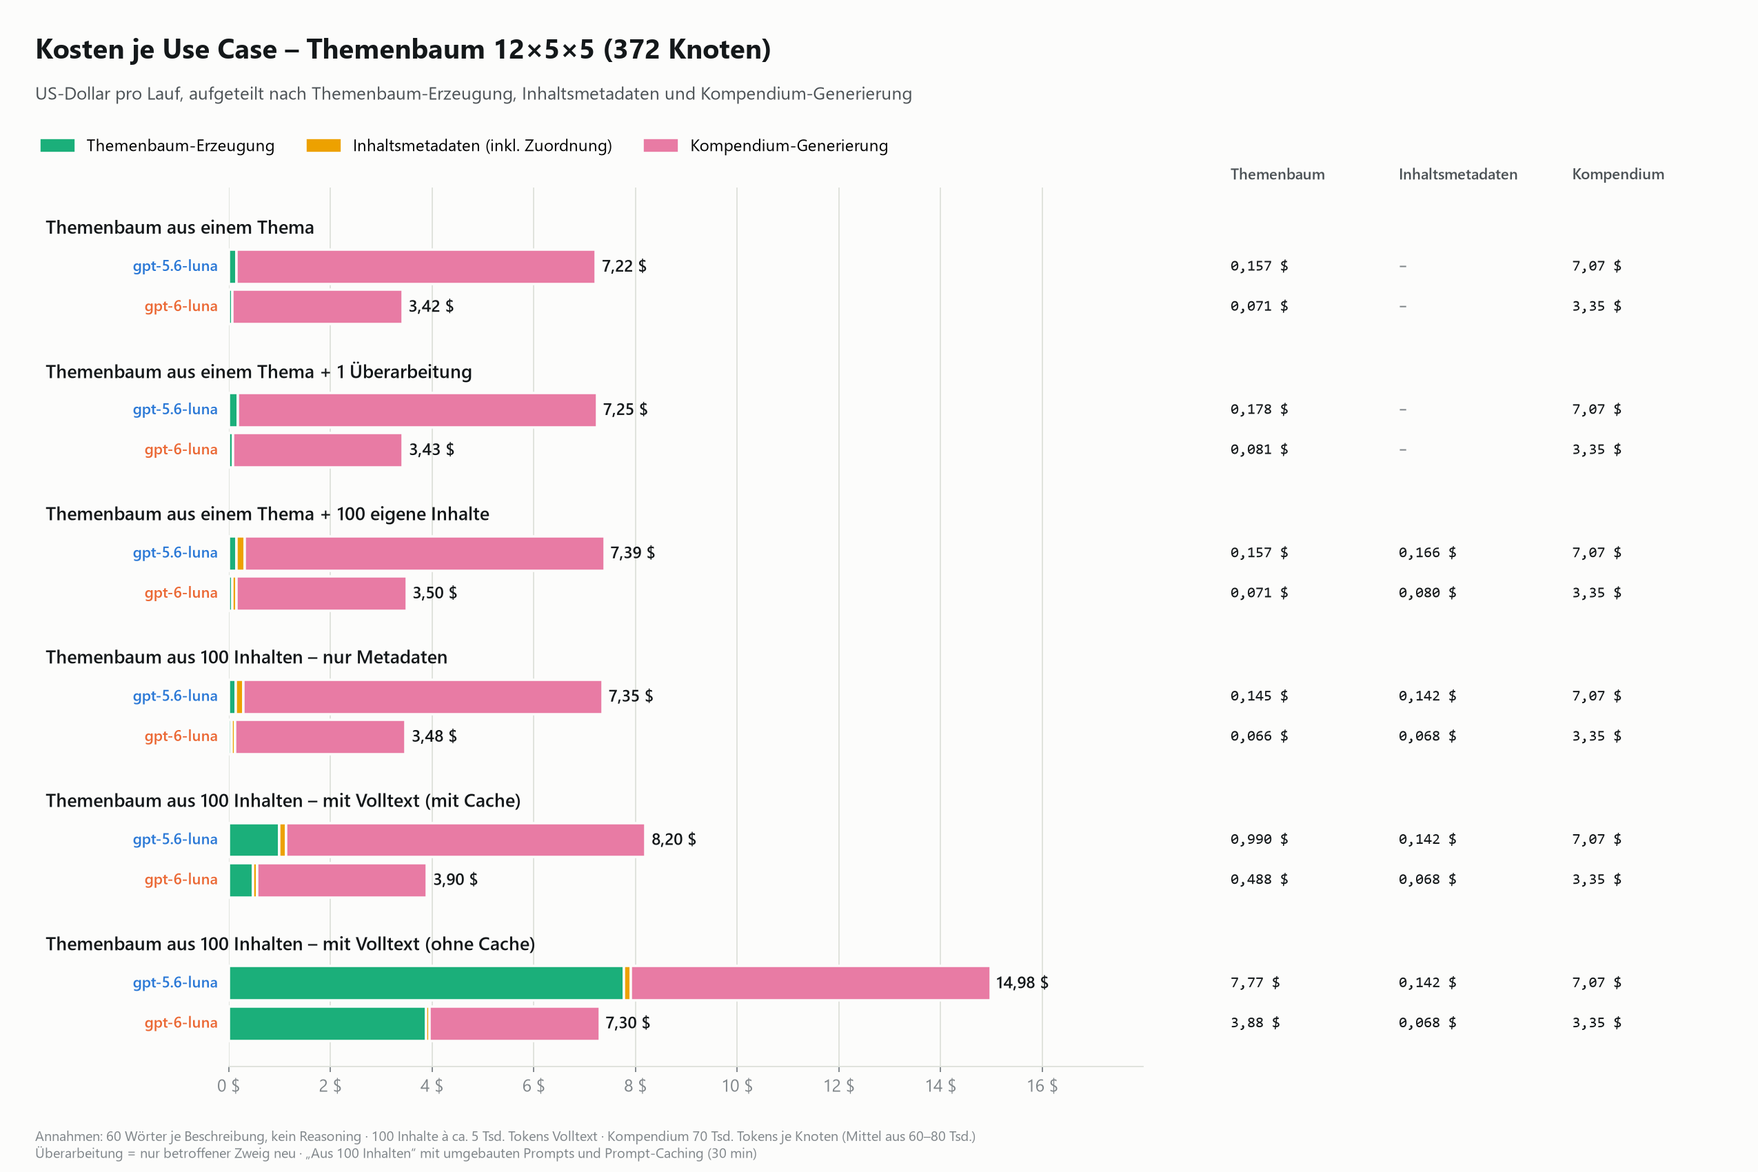
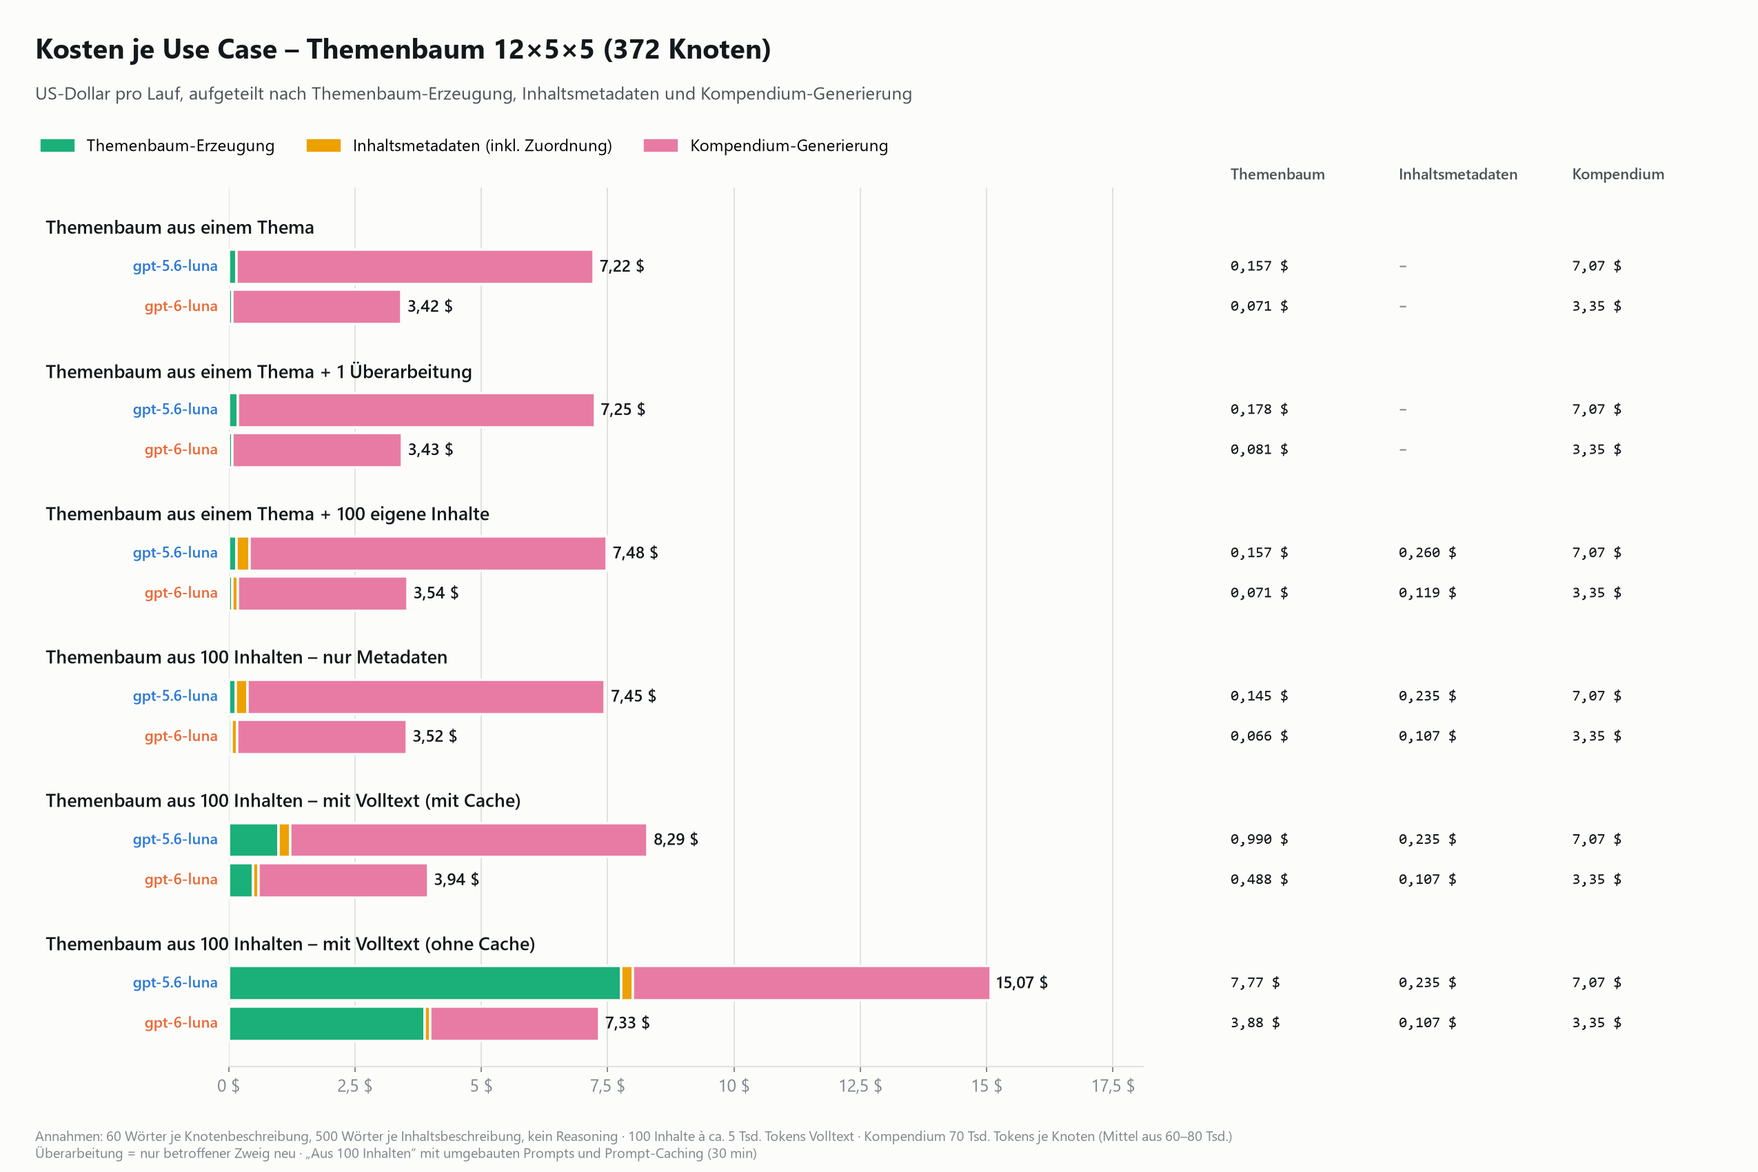
Kosten: Inhaltsbeschreibung 500 Wörter, Aufschlüsselung im Diagramm
- Eigenes Feld "Wörter je Inhaltsbeschreibung" (Standard 500); bisher waren
  250 Output-Tokens (~95 Wörter) fest angenommen, daher zu niedrige Metadatenkosten
- Kostenmodell, Grafiken und Doku mit 500 Wörtern neu gerechnet
  (Metadaten 100 Inhalte: 0,11 / 0,24 $ statt 0,07 / 0,14 $)
- Aufschlüsselung rechts unten entfernt; Tabelle je Use Case links standardmäßig
  offen, mit Monats- bzw. 1.000-Läufe-Spalte
- Achsenbeschriftung der Übersichtsgrafik korrigiert

diff --git a/themenbaum/static/kosten.html b/themenbaum/static/kosten.html
@@ -63,8 +63,8 @@ td.n{font-family:var(--mono);font-variant-numeric:tabular-nums;font-size:12.5px}
 tr.sum td{font-weight:700;border-bottom:0}
 .tbl{overflow-x:auto}
 .uc-chart{display:grid;gap:6px}
-.uc{all:unset;box-sizing:border-box;display:grid;gap:3px;padding:8px 10px;border-radius:8px;border:1px solid transparent;cursor:pointer}
-.uc:hover{background:var(--bg)}
+.uc{all:unset;box-sizing:border-box;display:grid;gap:3px;padding:8px 10px;border-radius:8px;border:1px solid transparent}
+
 .uc[aria-pressed="true"]{border-color:var(--accent);background:var(--accent-soft)}
 .uc:focus-visible{outline:2px solid var(--accent);outline-offset:1px}
 .uc-name{font-weight:600;font-size:13.5px}
@@ -111,17 +111,17 @@ code{font-family:var(--mono);font-size:.9em;background:var(--accent-soft);paddin
   <div class="facts">
     <div class="fact"><span class="k">Themenbaum 12×5×5 (372 Knoten)</span><span class="v">0,07 – 0,16 $</span><span class="s">73 LLM-Aufrufe; 6-luna bis 5.6-luna</span></div>
     <div class="fact"><span class="k">Kompendium für 372 Knoten</span><span class="v">2,83 – 8,18 $</span><span class="s">60–80 Tsd. Tokens je Knoten, über 90 % der Kosten</span></div>
-    <div class="fact"><span class="k">Metadaten für 100 Inhalte</span><span class="v">0,07 – 0,14 $</span><span class="s">Titel, Beschreibung, Keywords; Volltext ≈ 5 Tsd. Tokens</span></div>
+    <div class="fact"><span class="k">Metadaten für 100 Inhalte</span><span class="v">0,11 – 0,24 $</span><span class="s">Titel, Beschreibung (500 Wörter), Keywords; Volltext ≈ 5 Tsd. Tokens</span></div>
     <div class="fact"><span class="k">Überarbeitungswunsch (nur Zweig)</span><span class="v">0,01 – 0,02 $</span><span class="s">ganzer Baum neu: 0,04 – 0,10 $</span></div>
   </div>
 
   <div class="grid">
     <section class="card" aria-labelledby="h-main">
       <h2 id="h-main">Kosten je Use Case · <span id="chartTitle"></span></h2>
-      <p class="note">Rechnet live mit den Einstellungen im Rechner. Mit den Standardwerten entspricht das Diagramm der Übersichtsgrafik der Kostenanalyse. Einen Use Case anklicken, um ihn rechts aufzuschlüsseln.</p>
+      <p class="note">Rechnet live mit den Einstellungen im Rechner. Mit den Standardwerten entspricht es der Übersichtsgrafik der Kostenanalyse. Die Tabelle darunter schlüsselt jeden Use Case auf.</p>
       <div class="legend"><span><i style="background:var(--c-tree)"></i>Themenbaum-Erzeugung</span><span><i style="background:var(--c-rev)"></i>Anpassungen</span><span><i style="background:var(--c-meta)"></i>Inhaltsmetadaten (inkl. Zuordnung)</span><span><i style="background:var(--c-komp)"></i>Kompendium</span></div>
       <div id="chart" class="uc-chart"></div>
-      <details class="how"><summary>Werte als Tabelle</summary><div class="tbl"><table id="ucTable"></table></div></details>
+      <details class="how" open><summary>Aufschlüsselung je Use Case</summary><div class="tbl"><table id="ucTable"></table></div></details>
       <p class="note" id="chartNote"></p>
     </section>
 
@@ -148,7 +148,7 @@ code{font-family:var(--mono);font-size:.9em;background:var(--accent-soft);paddin
         </div>
         <div class="row">
           <label for="code">Code-Stand<select id="code"><option value="ist">aktueller Code</option><option value="fix">mit Prompt-Fix (nur Titel im Kontext)</option></select></label>
-          <label for="words">Wörter je Beschreibung<input type="number" id="words" value="60" min="20" max="300"></label>
+          <label for="words">Wörter je Knotenbeschreibung<input type="number" id="words" value="60" min="20" max="300"></label>
           <label for="reason">Reasoning-Tokens je Aufruf<input type="number" id="reason" value="0" min="0" step="100"></label>
         </div>
       </fieldset>
@@ -165,6 +165,7 @@ code{font-family:var(--mono);font-size:.9em;background:var(--accent-soft);paddin
         <div class="row">
           <label for="itemsExact">genau<input type="number" id="itemsExact" min="0" max="1000000" value="100"></label>
           <label for="fulltext">Volltext-Tokens je Inhalt<input type="number" id="fulltext" value="5000" min="0" step="500"></label>
+          <label for="metaWords">Wörter je Inhaltsbeschreibung<input type="number" id="metaWords" value="500" min="0" max="3000" step="50"></label>
         </div>
         <label class="check" for="assign"><input type="checkbox" id="assign" checked> Inhalte dem Baum zuordnen (Baum im Cache)</label>
       </fieldset>
@@ -179,12 +180,7 @@ code{font-family:var(--mono);font-size:.9em;background:var(--accent-soft);paddin
       </fieldset>
       <label for="runs">Läufe pro Monat<input type="number" id="runs" value="1" min="0" max="100000"></label>
 
-      <h3 class="sel" id="selTitle"></h3>
-      <div class="total" aria-live="polite"><span class="big" id="tTotal">–</span><span id="tMonth"></span><span id="tNodes"></span></div>
-      <div class="bar" id="bar" aria-hidden="true"></div>
-      <div class="legend"><span><i style="background:var(--c-tree)"></i>Themenbaum</span><span><i style="background:var(--c-rev)"></i>Anpassungen</span><span><i style="background:var(--c-meta)"></i>Inhaltsmetadaten</span><span><i style="background:var(--c-komp)"></i>Kompendium</span></div>
-      <div class="tbl"><table id="tRes"></table></div>
-      <p class="note" id="tCompare"></p>
+      <p class="note" id="calcNote"></p>
     </section>
   </div>
 
@@ -199,7 +195,7 @@ code{font-family:var(--mono);font-size:.9em;background:var(--accent-soft);paddin
           <tr><td>Themenbaum 12×10×5, aktueller Code (133 Aufrufe)</td><td class="n">0,151 $</td><td class="n">0,330 $</td></tr>
           <tr><td>Themenbaum 12×10×5, Fall „hoch“ (100 Wörter + Reasoning)</td><td class="n">0,267 $</td><td class="n">0,600 $</td></tr>
           <tr><td>Überarbeitung 12×10×5: ganzer Baum / nur Zweig / Zweig + Cache</td><td class="n">0,084 / 0,020 / 0,011 $</td><td class="n">0,197 / 0,042 / 0,023 $</td></tr>
-          <tr><td>Metadaten 100 Inhalte: Volltext kurz / mittel / lang</td><td class="n">0,038 / 0,068 / 0,168 $</td><td class="n">0,082 / 0,142 / 0,342 $</td></tr>
+          <tr><td>Metadaten 100 Inhalte: Volltext kurz / mittel / lang</td><td class="n">0,077 / 0,107 / 0,207 $</td><td class="n">0,175 / 0,235 / 0,435 $</td></tr>
           <tr><td>Zuordnung 100 Inhalte zu 12×5×5: ohne / mit Cache</td><td class="n">0,061 / 0,012 $</td><td class="n">0,122 / 0,025 $</td></tr>
           <tr><td>Baum aus 100 Inhalten 12×5×5, Volltext mittel: ohne / mit Cache</td><td class="n">3,88 / 0,49 $</td><td class="n">7,77 / 0,99 $</td></tr>
           <tr><td>Kompendium 12×5×5 (372 Knoten)</td><td class="n">2,83 – 3,87 $</td><td class="n">5,95 – 8,18 $</td></tr>
@@ -228,7 +224,7 @@ code{font-family:var(--mono);font-size:.9em;background:var(--accent-soft);paddin
       <ul>
         <li>System-Prompt 578 Tokens; ein Knoten im Output 182 Tokens bei 60 Wörtern Beschreibung (+2 Tokens je weiterem Wort).</li>
         <li>Aufrufe: 1 für die Hauptthemen, 1 je Hauptthema, 1 je Unterthema. Die Modelle schöpfen die Obergrenzen voll aus.</li>
-        <li>Metadaten: Anweisung 582 Tokens + Volltext je Inhalt, Output 250 Tokens. Zuordnung: Titelliste des Baums (14 Tokens je Knoten) im Cache.</li>
+        <li>Metadaten: Anweisung 582 Tokens + Volltext je Inhalt; Output 65 Tokens (Titel, Keywords) + 1,925 Tokens je Wort Beschreibung, Standard 500 Wörter ≈ 1.030 Tokens. Zuordnung: Titelliste des Baums (14 Tokens je Knoten) im Cache.</li>
         <li>Kompendium: gemessene 60–80 Tsd. Tokens und 30–40 s je Knoten; gerechnet mit 4–6 Tsd. Output, Rest Input.</li>
         <li>Tokenizer o200k als Näherung (±10–15 %). Nicht enthalten: Crawler, Hosting, Wiederholungen nach Fehlern.</li>
       </ul>
@@ -258,7 +254,6 @@ const usd=v=>(v<1?nf(v,3):v<100?nf(v,2):nf(v,0))+" $";
 const tok=v=>v>=1e6?nf(v/1e6,2)+" Mio.":v>=1e3?nf(v/1e3,0)+" Tsd.":nf(v,0);
 const COLORS={tree:"var(--c-tree)",rev:"var(--c-rev)",meta:"var(--c-meta)",komp:"var(--c-komp)"};
 const PARTS=[["tree","Themenbaum"],["rev","Anpassungen"],["meta","Inhaltsmetadaten"],["komp","Kompendium"]];
-let selected="topic";
 
 function applyPreset(){const p=PRESETS[$("#preset").value];if(!p)return;$("#pIn").value=p.in;$("#pOut").value=p.out;$("#pCache").value=p.cache;$("#pWrite").value=p.write}
 
@@ -267,7 +262,7 @@ function applyPreset(){const p=PRESETS[$("#preset").value];if(!p)return;$("#pIn"
 function params(){
   return {NM:Math.round(num("n1")),NS:Math.round(num("n2")),NL:Math.round(num("n3")),words:num("words"),R:num("reason"),
     fix:$("#code").value==="fix",loops:Math.round(num("loops")),loopMode:$("#loopMode").value,
-    n:Math.round(num("itemsExact")),ft:num("fulltext"),assign:$("#assign").checked,
+    n:Math.round(num("itemsExact")),ft:num("fulltext"),metaWords:num("metaWords"),assign:$("#assign").checked,
     komp:$("#komp").checked,kompAll:$("#kompNodes").value==="all",kompTok:num("kompTok"),kompOut:num("kompOut")};
 }
 function tree(p,fix){
@@ -291,7 +286,7 @@ function partRev(p,pr){
   return {i:L*150+ctx,o:L*out,c:cost(pr,L*150,L*out,(L-1)*(ctx-150),ctx-150)};
 }
 function partMeta(p,pr,assign){
-  const n=p.n,i0=n*(582+p.ft),o0=n*(250+p.R);
+  const n=p.n,i0=n*(582+p.ft),o0=n*(65+1.925*p.metaWords+p.R);
   let r={i:i0,o:o0,c:cost(pr,i0,o0)};
   if(n>0&&assign){const tl=tree(p,p.fix).nodes*14+300;r={i:r.i+n*250+tl,o:r.o+n*60,c:r.c+cost(pr,n*250,n*60,(n-1)*tl,tl)}}
   return r;
@@ -332,7 +327,6 @@ function currentProfile(){const k=$("#preset").value;return k==="own"?profiles()
 function renderChart(p){
   const profs=profiles(),all=profs.map(pr=>useCases(p,pr));
   const ucs=all[0];
-  if(!ucs.some(u=>u.key===selected))selected="topic";
   const max=Math.max(...all.flat().map(u=>u.total),1e-9);
   const t=tree(p,p.fix);
   $("#chartTitle").textContent=`Themenbaum ${p.NM}×${p.NS}×${p.NL} (${nf(t.nodes,0)} Knoten)`;
@@ -341,27 +335,18 @@ function renderChart(p){
     const rows=profs.map((pr,j)=>{const v=all[j][i];
       const segs=PARTS.filter(([k])=>v.parts[k].c>0).map(([k,name])=>`<i style="flex:${v.parts[k].c} 1 0;background:${COLORS[k]}" title="${name}: ${usd(v.parts[k].c)}"></i>`).join("");
       return `<span class="uc-row"><span class="uc-model">${pr.name}</span><span class="uc-track"><span class="uc-bar" style="width:${(v.total/max*80).toFixed(2)}%">${segs}</span><span class="uc-val">${usd(v.total)}</span></span></span>`}).join("");
-    return `<button type="button" class="uc" data-key="${u.key}" aria-pressed="${u.key===selected}"><span class="uc-name">${u.name}</span>${warn}${rows}</button>`}).join("");
-  $("#chart").querySelectorAll(".uc").forEach(b=>b.onclick=()=>{selected=b.dataset.key;render()});
-  $("#ucTable").innerHTML=`<thead><tr><th>Use Case</th><th>Modell</th>${PARTS.map(([,n])=>`<th>${n}</th>`).join("")}<th>Summe</th></tr></thead><tbody>`+
-    ucs.map((u,i)=>profs.map((pr,j)=>{const v=all[j][i];return `<tr><td>${j?"":u.name}</td><td>${pr.name}</td>${PARTS.map(([k])=>`<td class="n">${v.parts[k].c?usd(v.parts[k].c):"–"}</td>`).join("")}<td class="n"><b>${usd(v.total)}</b></td></tr>`}).join("")).join("")+"</tbody>";
+    return `<div class="uc"><span class="uc-name">${u.name}</span>${warn}${rows}</div>`}).join("");
+  const runs=num("runs"),month=runs!==1;
+  $("#ucTable").innerHTML=`<thead><tr><th>Use Case</th><th>Modell</th>${PARTS.map(([,n])=>`<th>${n}</th>`).join("")}<th>Summe je Lauf</th><th>${month?`× ${nf(runs,0)} Läufe`:"1.000 Läufe"}</th></tr></thead><tbody>`+
+    ucs.map((u,i)=>profs.map((pr,j)=>{const v=all[j][i];return `<tr><td>${j?"":u.name}</td><td>${pr.name}</td>${PARTS.map(([k])=>`<td class="n" title="${tok(v.parts[k].i)} Input, ${tok(v.parts[k].o)} Output">${v.parts[k].c?usd(v.parts[k].c):"–"}</td>`).join("")}<td class="n"><b>${usd(v.total)}</b></td><td class="n">${usd(v.total*(month?runs:1000))}</td></tr>`}).join("")).join("")+"</tbody>";
   const fixNote=p.n>0?" „Themenbaum aus Inhalten“ rechnet mit umgebauten Prompts (Korpus vorne, nur Titel im Kontext), sonst greift kein Caching.":"";
   $("#chartNote").textContent=`Kompendium je Zeile: ${profs.map(pr=>`${usd(partKomp(p,pr).c)} (${pr.name})`).join(", ")}.${fixNote}`;
 }
 
 function renderCalc(p){
-  const pr=currentProfile(),u=useCases(p,pr).find(x=>x.key===selected),runs=num("runs");
+  const tr=tree(p,p.fix);
   $("#itemsOut").textContent=nf(p.n,0);
-  $("#selTitle").textContent=`Aufschlüsselung: ${u.name} · ${pr.name}`;
-  $("#tTotal").textContent=usd(u.total)+" je Lauf";
-  $("#tMonth").textContent=runs!==1?`${usd(u.total*runs)} bei ${nf(runs,0)} Läufen im Monat`:`${usd(u.total*1000)} für 1.000 Läufe`;
-  $("#tNodes").textContent=`${nf(tree(p,p.fix).nodes,0)} Knoten · ${tree(p,p.fix).calls} LLM-Aufrufe für den Baum`;
-  $("#bar").innerHTML=u.total>0?PARTS.filter(([k])=>u.parts[k].c>0).map(([k,n])=>`<div style="flex:${u.parts[k].c} 1 0;background:${COLORS[k]}" title="${n}: ${usd(u.parts[k].c)}"></div>`).join(""):"";
-  const sum=f=>PARTS.reduce((s,[k])=>s+u.parts[k][f],0);
-  $("#tRes").innerHTML=`<thead><tr><th>Baustein</th><th>Input</th><th>Output</th><th>Kosten</th><th>Anteil</th></tr></thead><tbody>`+
-    PARTS.map(([k,n])=>{const v=u.parts[k];return `<tr><td>${n}</td><td class="n">${tok(v.i)}</td><td class="n">${tok(v.o)}</td><td class="n">${v.c?usd(v.c):"–"}</td><td class="n">${u.total?nf(v.c/u.total*100,0):0} %</td></tr>`}).join("")+
-    `<tr class="sum"><td>Summe je Lauf</td><td class="n">${tok(sum("i"))}</td><td class="n">${tok(sum("o"))}</td><td class="n">${usd(u.total)}</td><td></td></tr></tbody>`;
-  $("#tCompare").textContent="Anderen Use Case links im Diagramm anklicken, um ihn hier aufzuschlüsseln.";
+  $("#calcNote").textContent=`${nf(tr.nodes,0)} Knoten, ${tr.calls} LLM-Aufrufe für den Baum. Die Ergebnisse stehen links im Diagramm und in der Aufschlüsselung je Use Case.`;
 }
 function render(){const p=params();renderChart(p);renderCalc(p)}
 

diff --git a/scripts/grafiken_kosten.py b/scripts/grafiken_kosten.py
@@ -78,14 +78,14 @@ def plot_overview(st, fn):
     ax.set_xlim(0, maxv * 1.2); ax.set_yticks([])
     for s in ("top", "right", "left"): ax.spines[s].set_visible(False)
     ax.grid(axis="x", color=LINE, lw=0.8); ax.set_axisbelow(True)
-    ax.xaxis.set_major_formatter(FuncFormatter(lambda v, _: f"{v:.0f} $"))
+    ax.xaxis.set_major_formatter(FuncFormatter(lambda v, _: f"{v:.1f}".rstrip("0").rstrip(".").replace(".", ",") + " $"))
     fig.text(0.02, 1 - 0.5 / H, f"Kosten je Use Case – Themenbaum {st} ({nodes} Knoten)", fontsize=17, fontweight="bold", color=INK)
     fig.text(0.02, 1 - 0.85 / H, "US-Dollar pro Lauf, aufgeteilt nach Themenbaum-Erzeugung, Inhaltsmetadaten und Kompendium-Generierung", fontsize=11, color=INK2)
     hs = [plt.Rectangle((0, 0), 1, 1, color=c) for c in (C1, C2, C3)]
     fig.legend(hs, ["Themenbaum-Erzeugung", "Inhaltsmetadaten (inkl. Zuordnung)", "Kompendium-Generierung"], loc="lower left",
                bbox_to_anchor=(0.015, 1 - 1.45 / H), ncol=3, frameon=False, fontsize=10)
     fig.text(0.02, 0.12 / H,
-             "Annahmen: 60 Wörter je Beschreibung, kein Reasoning · 100 Inhalte à ca. 5 Tsd. Tokens Volltext · Kompendium 70 Tsd. Tokens je Knoten (Mittel aus 60–80 Tsd.)\n"
+             "Annahmen: 60 Wörter je Knotenbeschreibung, 500 Wörter je Inhaltsbeschreibung, kein Reasoning · 100 Inhalte à ca. 5 Tsd. Tokens Volltext · Kompendium 70 Tsd. Tokens je Knoten (Mittel aus 60–80 Tsd.)\n"
              "Überarbeitung = nur betroffener Zweig neu · „Aus 100 Inhalten“ mit umgebauten Prompts und Prompt-Caching (30 min)",
              ha="left", fontsize=8.5, color=MUTED)
     fig.savefig(f"{OUT}/{fn}", dpi=170); plt.close(fig)

diff --git a/scripts/kostenmodell.py b/scripts/kostenmodell.py
@@ -63,7 +63,9 @@ for s in ("12×5×5","12×10×5"):
             Bc={m: round((cost(m,150,br+r,twrite=tin-150)+4*cost(m,150,br+r,tcached=tin-150))/5,4) for m in M})
     D["rev"].append(row)
 INSTR = t(DESCRIPTION_PROMPT_TEMPLATE)+200
-META_OUT = 250
+# Metadaten-Output je Inhalt: Titel, Keywords, JSON (~65 Tokens) + Beschreibung (1,925 Tokens je Wort, Deutsch).
+META_WORDS = 500
+META_OUT = round(65 + 1.925 * META_WORDS)
 for label,ft in {"Volltext kurz (≈2k Tokens)":2000,"Volltext mittel (≈5k)":5000,"Volltext lang (≈15k, gekappt)":15000}.items():
     tin=100*(INSTR+ft)
     D["uc2"].append(dict(label=label,ft=ft,tin=tin,basis=dict(tout=100*META_OUT,**C(tin=tin,tout=100*META_OUT)),hoch=dict(tout=100*(META_OUT+800),**C(tin=tin,tout=100*(META_OUT+800)))))

diff --git a/docs/kosten.md b/docs/kosten.md
@@ -12,8 +12,8 @@ Alle Beträge in US-Dollar. Gerechnet für **gpt-6-luna** und **gpt-5.6-luna**.
 - **Der Themenbaum selbst ist günstig:** 0,07–0,16 $ für 12×5×5 (372 Knoten), 0,15–0,33 $ für 12×10×5 (732 Knoten).
 - **Ein Kompendium-Text je Sammlung dominiert** mit über 90 % der Kosten: 2,83–8,18 $ für 372 Knoten. Bei mehreren
   hundert Knoten kommt trotz kleiner Einzelbeträge einiges zusammen.
-- **Inhalte skalieren linear mit der Menge:** beschreibende Metadaten (Titel, Beschreibung, Keywords) kosten etwa
-  0,07–0,14 Cent je Inhalt; Fach und Bildungsstufe laufen ohne LLM.
+- **Inhalte skalieren linear mit der Menge:** beschreibende Metadaten (Titel, Beschreibung mit 500 Wörtern, Keywords)
+  kosten etwa 0,11–0,24 Cent je Inhalt; Fach und Bildungsstufe laufen ohne LLM.
 - **Überarbeitungswünsche sind billig**, wenn nur der betroffene Zweig neu erzeugt wird (1–4 Cent).
 - **Teuer wird es nur, wenn Volltexte vieler Inhalte in jeden Aufruf wandern** und kein Prompt-Caching genutzt wird
   (bis 14 $ je Baum).
@@ -24,10 +24,10 @@ Alle Beträge in US-Dollar. Gerechnet für **gpt-6-luna** und **gpt-5.6-luna**.
 |---|---:|---:|
 | Themenbaum aus einem Thema | 3,42 $ | 7,22 $ |
 | … + 1 Überarbeitung | 3,43 $ | 7,25 $ |
-| … + 100 eigene Inhalte | 3,50 $ | 7,39 $ |
-| Themenbaum aus 100 Inhalten, nur Metadaten | 3,48 $ | 7,35 $ |
-| Themenbaum aus 100 Inhalten, mit Volltext (mit Cache) | 3,90 $ | 8,20 $ |
-| Themenbaum aus 100 Inhalten, mit Volltext (ohne Cache) | 7,30 $ | 14,98 $ |
+| … + 100 eigene Inhalte | 3,54 $ | 7,48 $ |
+| Themenbaum aus 100 Inhalten, nur Metadaten | 3,52 $ | 7,45 $ |
+| Themenbaum aus 100 Inhalten, mit Volltext (mit Cache) | 3,94 $ | 8,29 $ |
+| Themenbaum aus 100 Inhalten, mit Volltext (ohne Cache) | 7,33 $ | 15,07 $ |
 
 Dieselbe Übersicht für 12×10×5: [`kosten/00b_uebersicht_usecases_12x10x5.png`](kosten/00b_uebersicht_usecases_12x10x5.png).
 
@@ -44,7 +44,10 @@ Dieselbe Übersicht für 12×10×5: [`kosten/00b_uebersicht_usecases_12x10x5.png
   Lehrplanthemen. 12×5×5 = 73 Aufrufe, 12×10×5 = 133 Aufrufe.
 - System-Prompt 578 Tokens. Ein Knoten im Output (Titel, Kurztitel, Beschreibung, 5 Keywords) hat 182 Tokens bei
   60 Wörtern Beschreibung, 264 Tokens bei 100 Wörtern.
-- **Basis:** 60 Wörter, kein Reasoning. **Hoch:** 100 Wörter und 1.000 Reasoning-Tokens je Aufruf.
+- **Inhaltsmetadaten:** Anweisung 582 Tokens + Volltext; Output 65 Tokens (Titel, Keywords) + 1,925 Tokens je Wort
+  Beschreibung. Standard 500 Wörter ≈ 1.030 Tokens. (Eine frühere Fassung rechnete mit 250 Tokens, also nur etwa
+  95 Wörtern, und lag deshalb bei 0,07–0,14 $ je 100 Inhalte.)
+- **Basis:** 60 Wörter je Knotenbeschreibung im Baum, kein Reasoning. **Hoch:** 100 Wörter und 1.000 Reasoning-Tokens je Aufruf.
 - Die Modelle schöpfen die Obergrenzen voll aus (laut Prompt sind es Höchstwerte; real entstehen eher weniger Knoten).
 - Nicht enthalten: Crawler, Hosting, Wiederholungen nach API-Fehlern.
 
@@ -87,9 +90,9 @@ Prompt-Caching, weil die Titelliste des Baums in allen Aufrufen gleich bleibt.
 
 | Schritt (100 Inhalte) | gpt-6-luna | gpt-5.6-luna |
 |---|---:|---:|
-| Metadaten, Volltext kurz (≈2 Tsd. Tokens) | 0,038 $ | 0,082 $ |
-| Metadaten, Volltext mittel (≈5 Tsd.) | 0,068 $ | 0,142 $ |
-| Metadaten, Volltext lang (≈15 Tsd., gekappt) | 0,168 $ | 0,342 $ |
+| Metadaten, Volltext kurz (≈2 Tsd. Tokens) | 0,077 $ | 0,175 $ |
+| Metadaten, Volltext mittel (≈5 Tsd.) | 0,107 $ | 0,235 $ |
+| Metadaten, Volltext lang (≈15 Tsd., gekappt) | 0,207 $ | 0,435 $ |
 | Zuordnung zu 12×5×5, ohne / mit Cache | 0,061 / 0,012 $ | 0,122 / 0,025 $ |
 
 ## Use Case 3: Struktur aus 100 Inhalten ableiten

diff --git a/README.md b/README.md
@@ -34,7 +34,7 @@ Hintergrund laufen. Die App ist **passwortgeschützt** (Login beim Aufruf).
   (mpnet, ARI 0,39); model2vec mit Substantiven 59 % bei etwa 300-facher Geschwindigkeit. Hybride (Namen aus
   Wikipedia oder einer Wikidata-Taxonomie) liefern die besten Namen und echte Beschreibungen.
 - **Kosten mit LLM:** Ein Themenbaum 12×5×5 kostet 0,07–0,16 $, ein Kompendium-Text je Sammlung 2,83–8,18 $ für
-  372 Knoten. Metadaten für Inhalte skalieren linear (etwa 0,1 Cent je Inhalt).
+  372 Knoten. Metadaten für Inhalte skalieren linear (etwa 0,11–0,24 Cent je Inhalt bei 500 Wörtern Beschreibung).
 
 ## Schnellstart lokal
 
